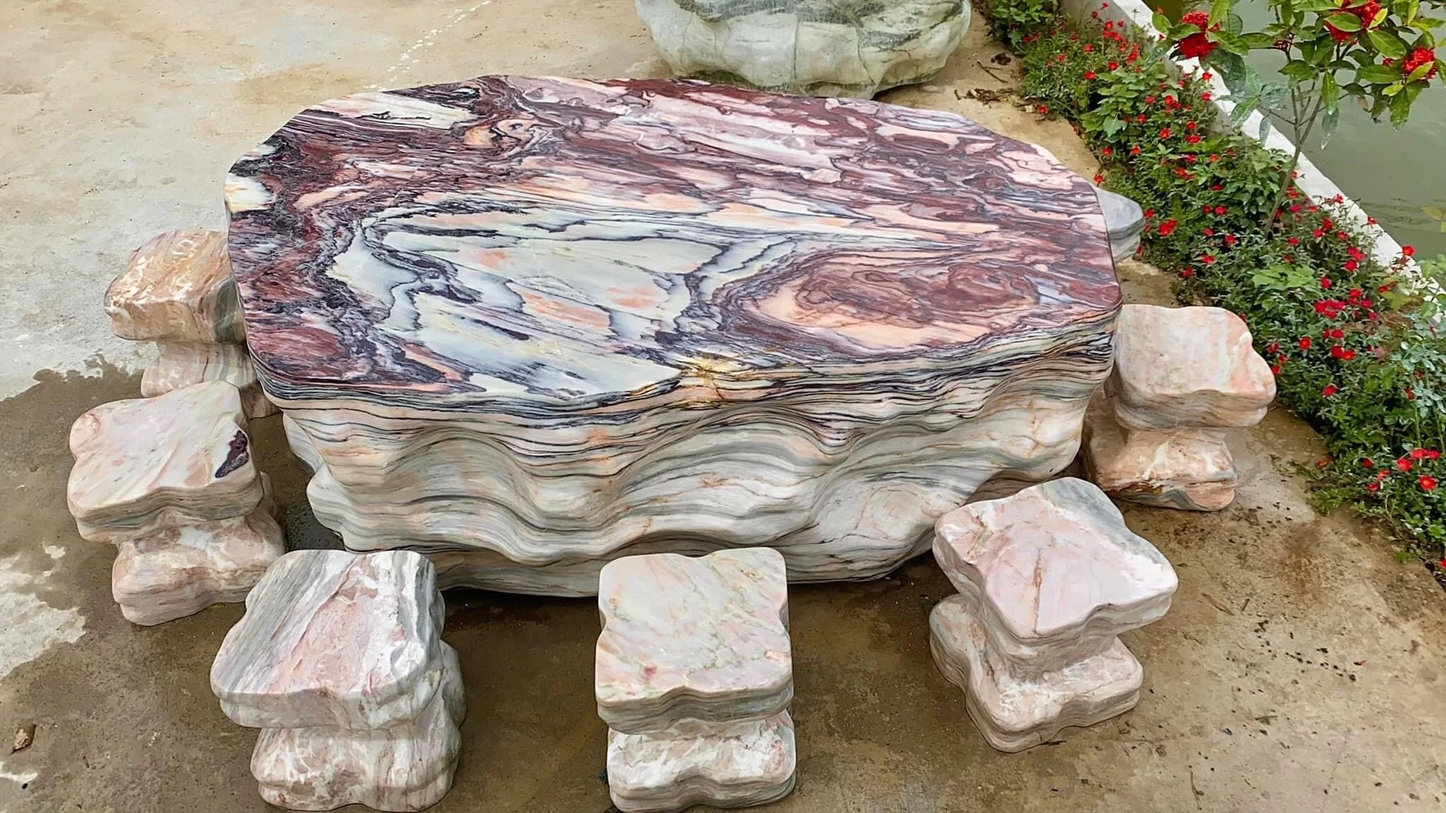
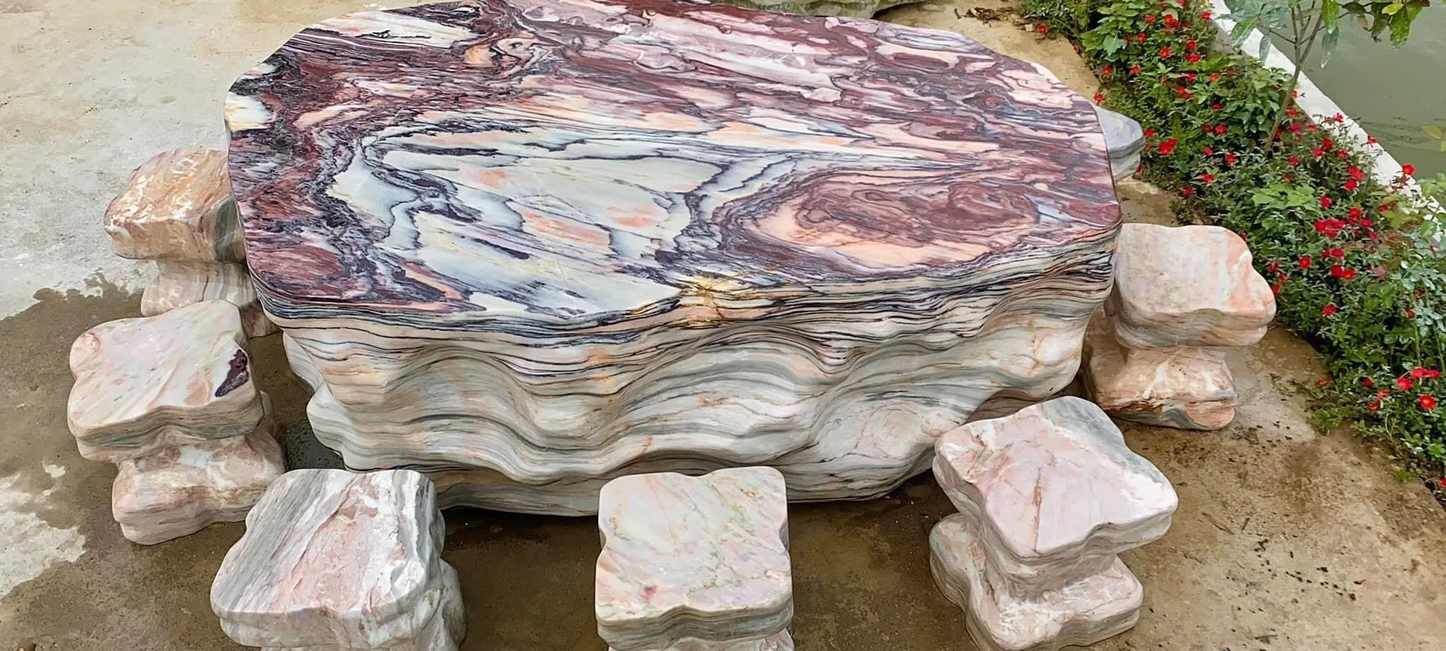
Widen the homepage slides to a 20:9 frame.

diff --git a/src/app/globals.css b/src/app/globals.css
@@ -2998,7 +2998,7 @@ h5.text-success {
   position: relative;
   width: 100%;
   height: auto;
-  aspect-ratio: 16 / 9;
+  aspect-ratio: 20 / 9;
   border-radius: 0;
   overflow: hidden;
   background: #041434;
@@ -3208,7 +3208,7 @@ h5.text-success {
 @media (max-width: 767.98px) {
   .hero-carousel-react {
     height: auto;
-    aspect-ratio: 16 / 9;
+    aspect-ratio: 20 / 9;
   }
 
   .hero-carousel-react__veil {
